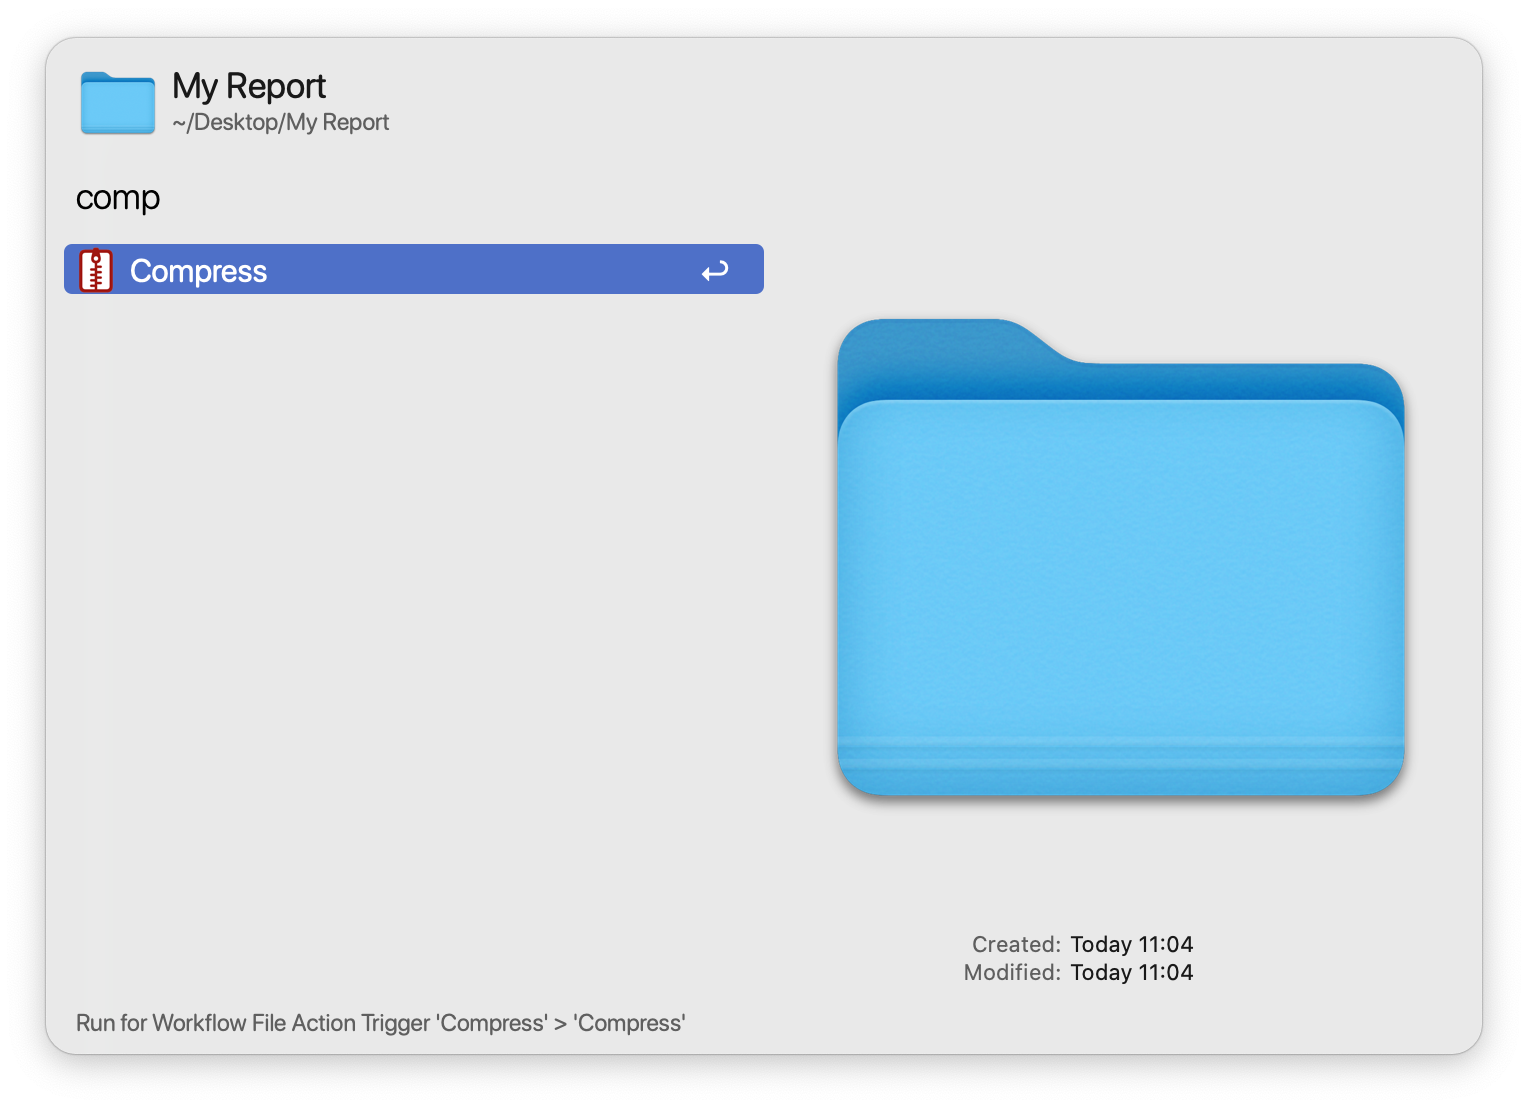
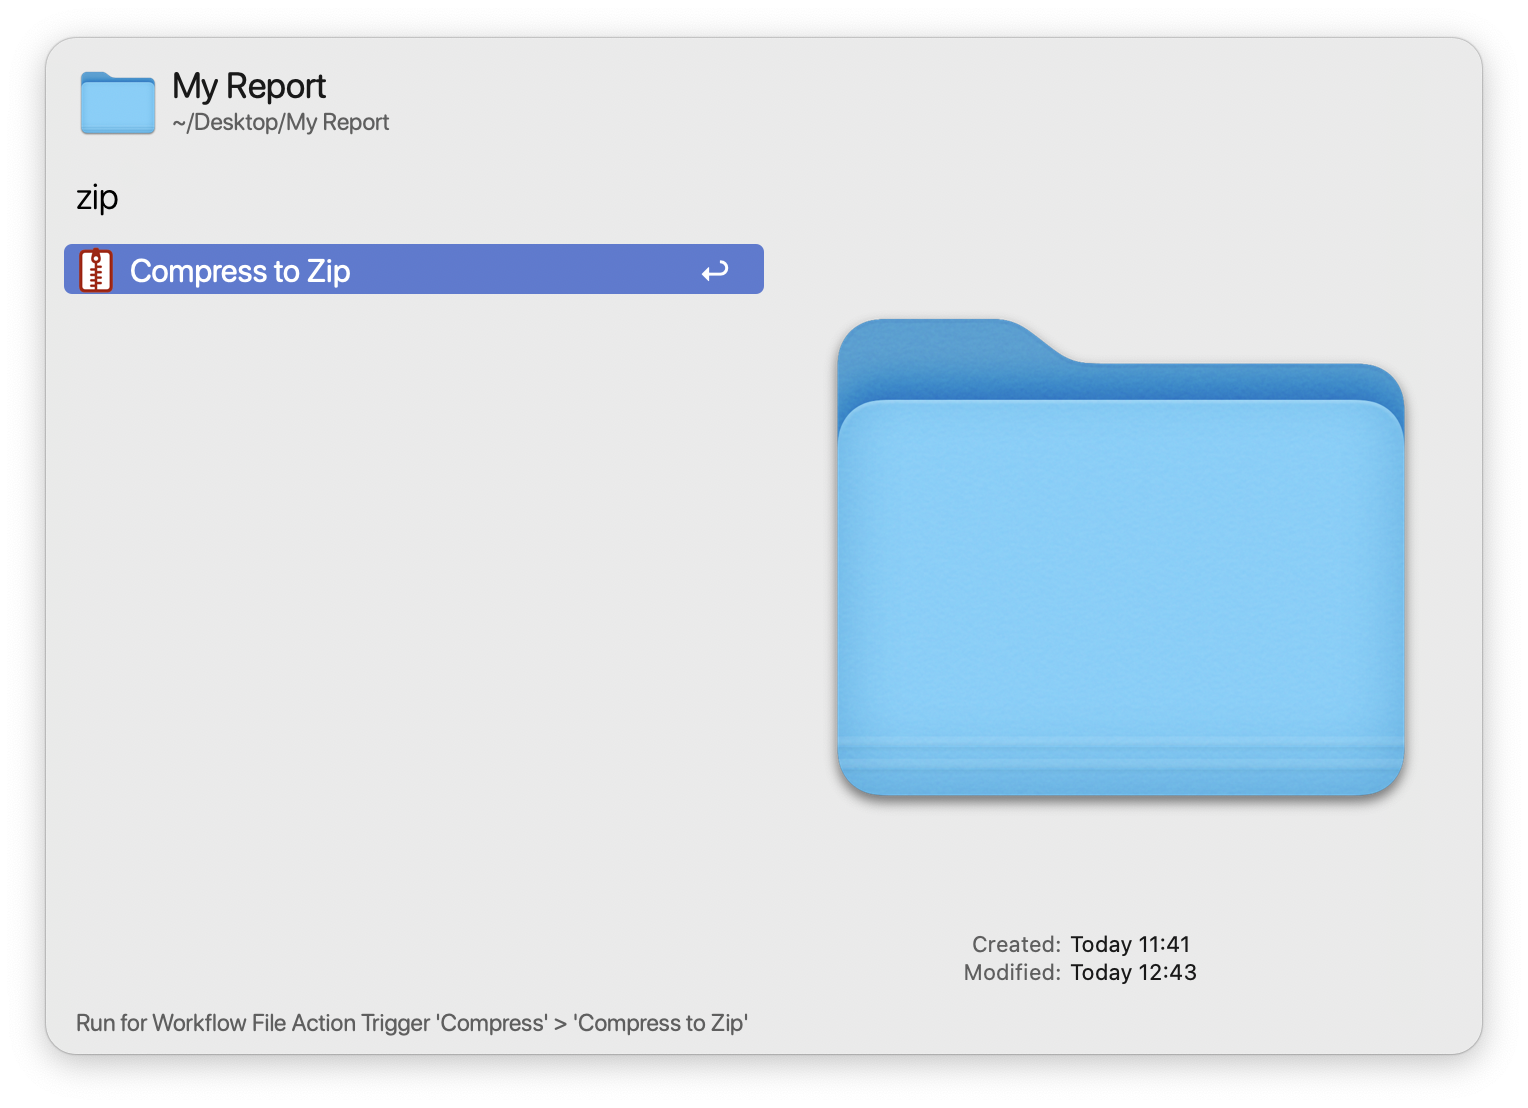
Various improvements
* Handle multiple selection and create files.zip in this case.
* Do not include full paths to the selected files/folders in the zip
  file.
* Notifiy on completion.
* Do not overwrite zip file if it already exists.
* Use one universal action called "Compress to Zip"

diff --git a/README.md b/README.md
@@ -2,6 +2,8 @@
 
 A universal action that compresses the selected file or folder to create a zip file in the same directory.
 
-To use, select a file or folder in Finder and trigger Alfred's universal actions. Start typing "compress" or "zip" in order to find it and then press enter. A Zip file of the same name as the selection will appear in the Finder window.
+To use, select a file or folder in Finder and trigger Alfred's universal actions. Start typing "compress" or "zip" in order to find the "Compress to Zip" action and then press enter to create a Zip file. 
+
+For a single selection, a Zip file of the same name as the selection will appear in the Finder window. For a selection of multiple files/folders, then the Zip file will be named "files.zip".
 
 ![Screenshot of Compress in action](readme-assets/screenshot.png)
